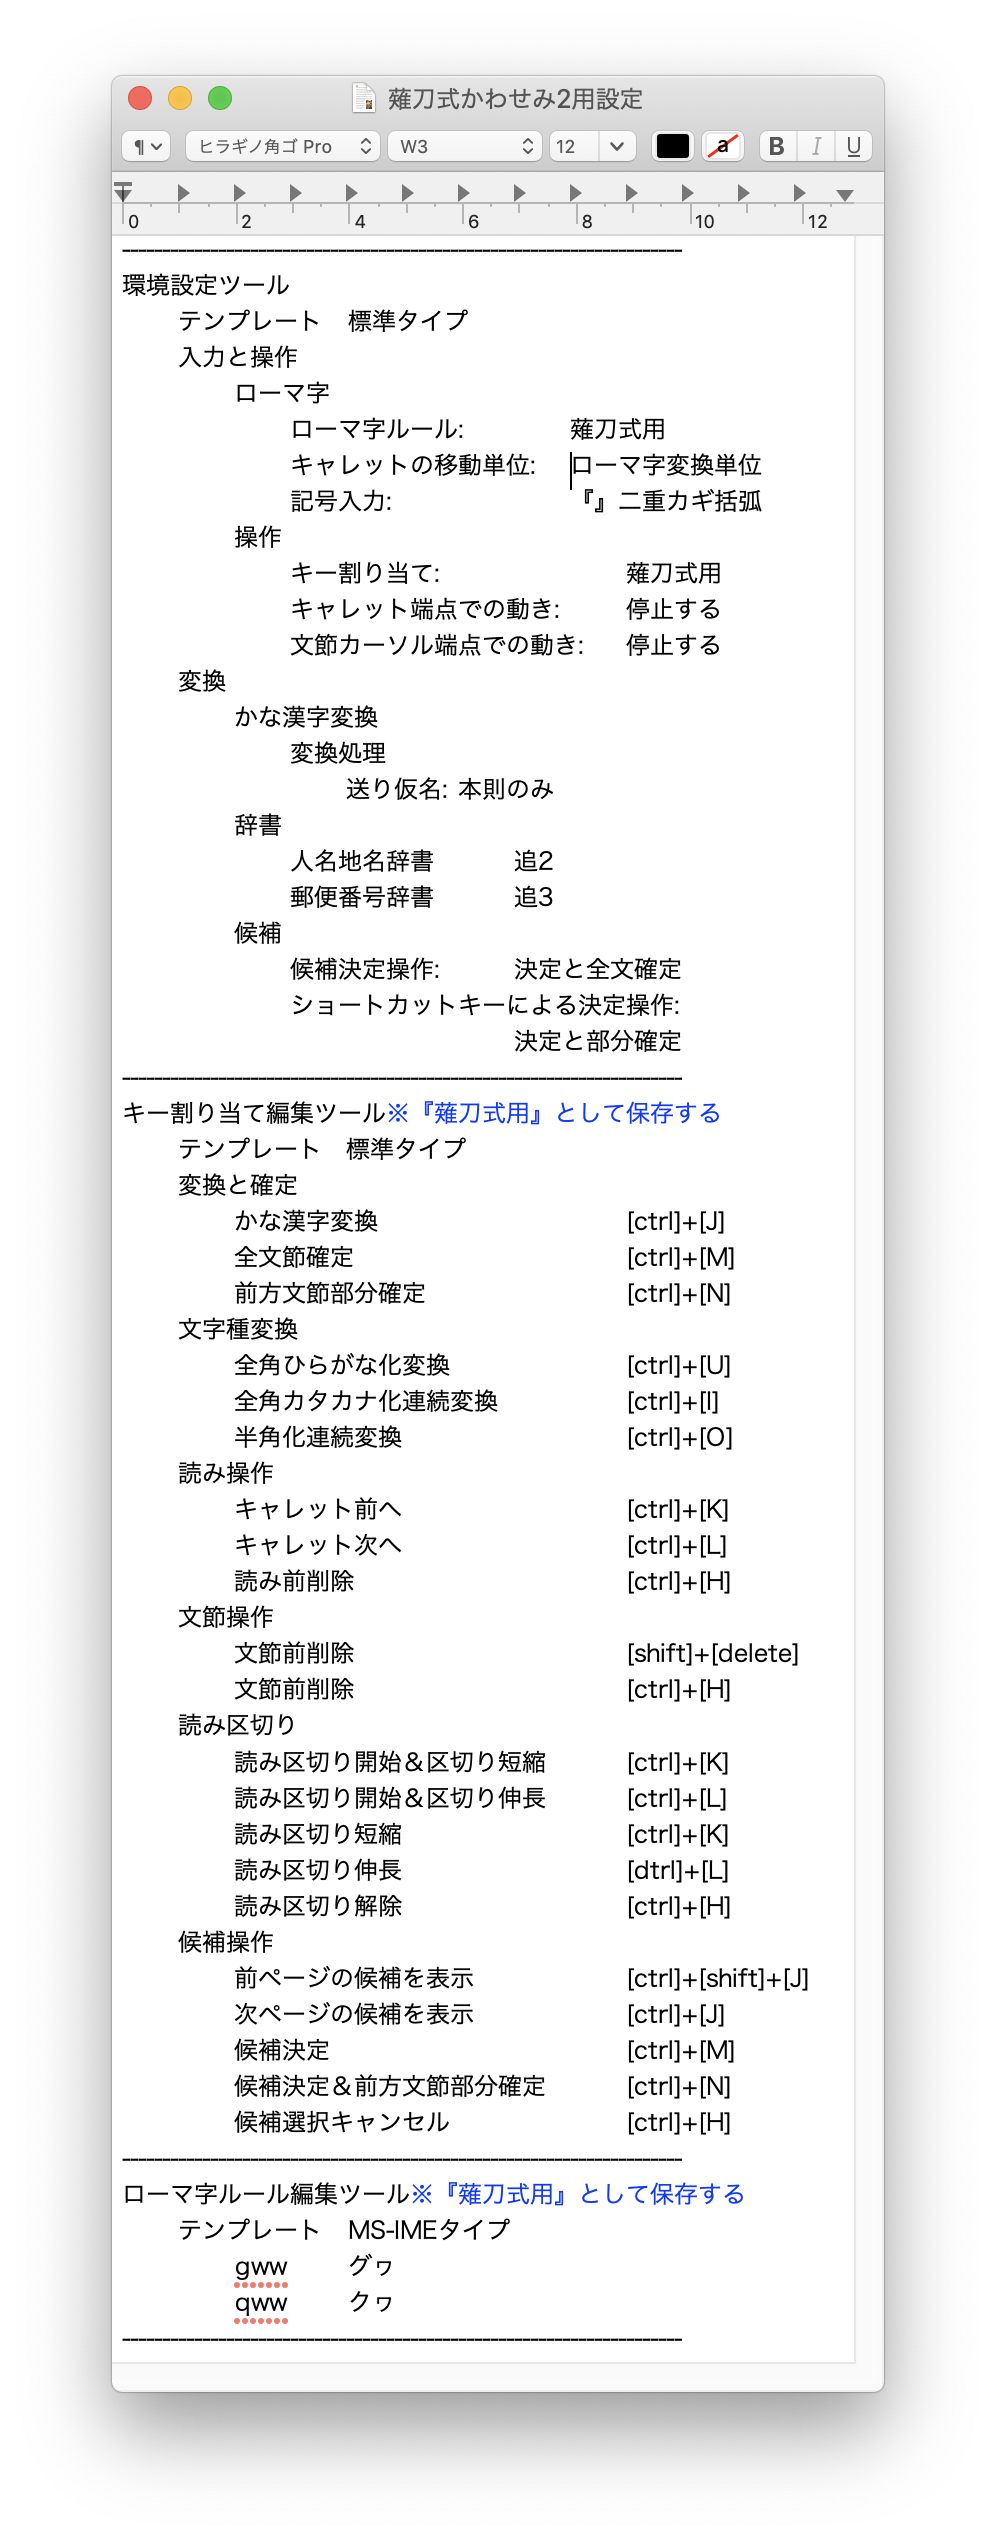
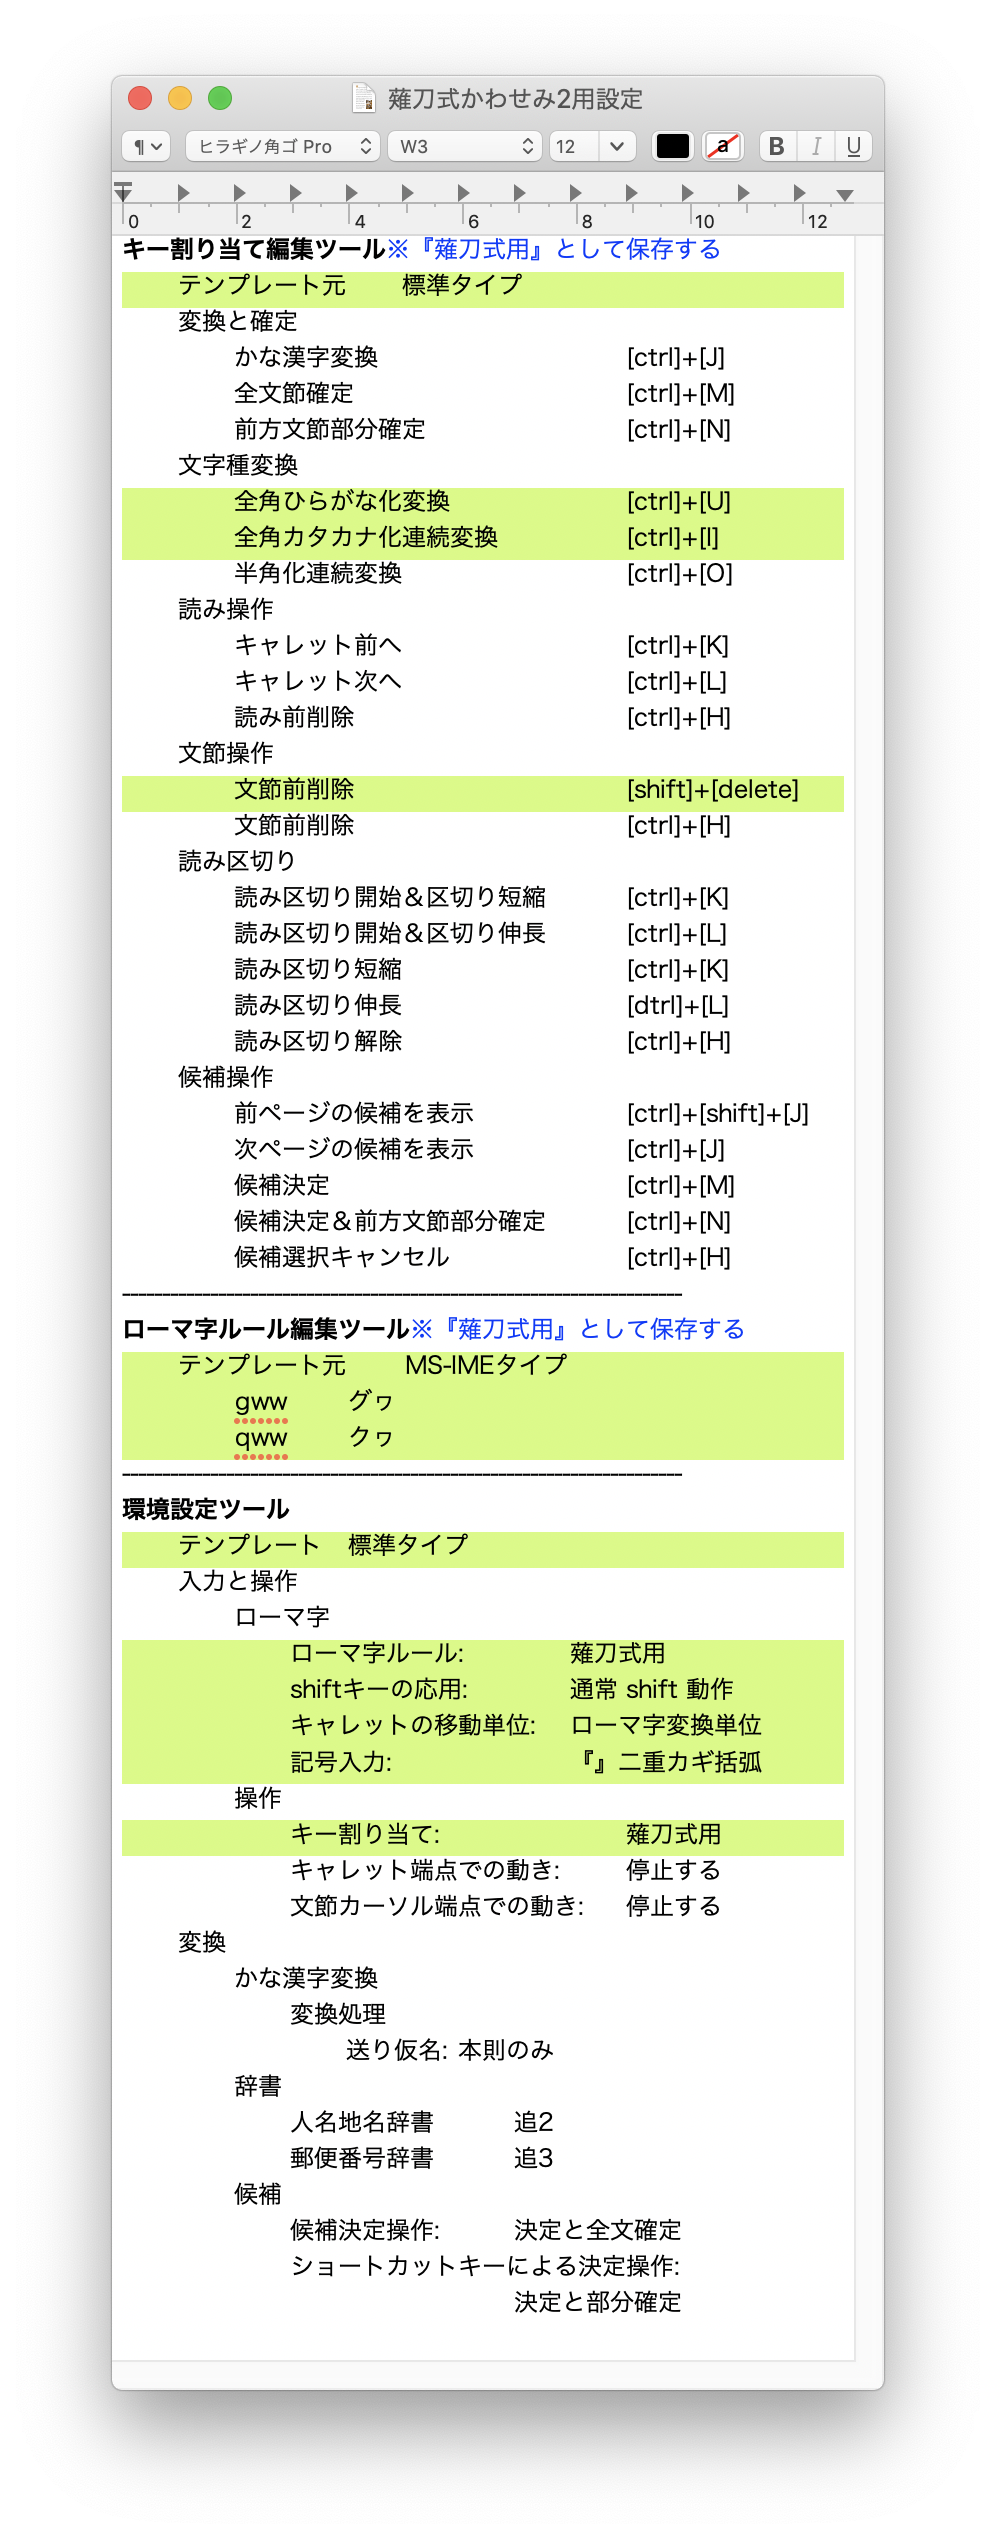
.

Changed region(s): [[0.1245, 0.0934, 0.8715, 0.9338]]

diff --git a/Naginata/Mac/README.md b/Naginata/Mac/README.md
@@ -41,7 +41,7 @@ naginata_dictionary.plist
 
 ### 【重要】かわせみ2 でのみ動作します。
 
-かわせみ2 を私は次のように設定しています。
+かわせみ2 を私は次のように設定していますが、色が付いたところが必要な箇所です。
 
 ![かわせみ2設定](かわせみ2設定.png)
 
